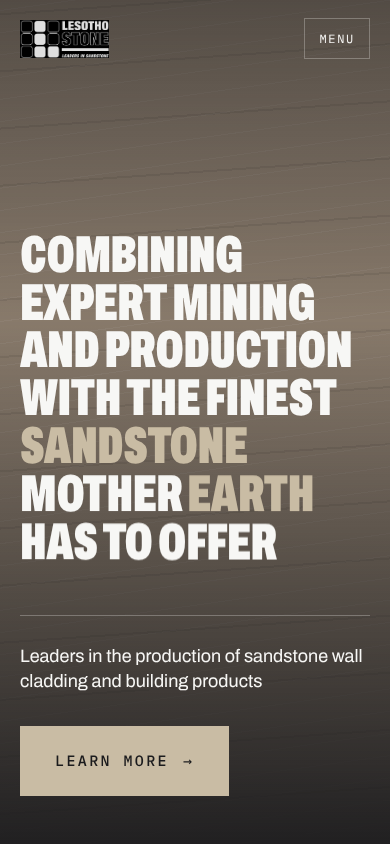
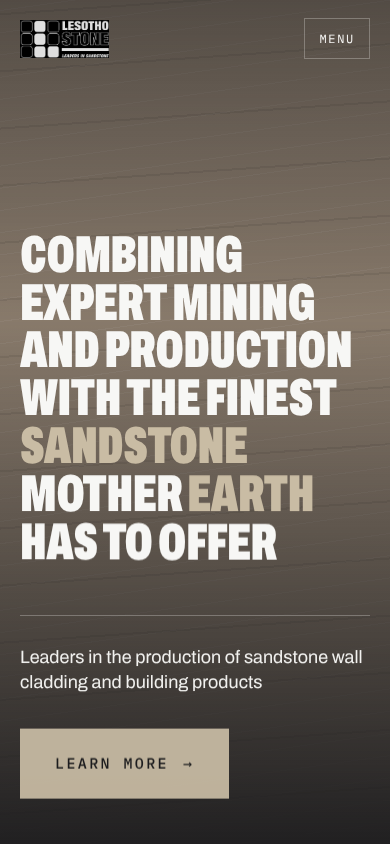
Document the machine-readable layer in the update-website skill
Claude-Session: https://claude.ai/code/session_01NmJtkduYUUvuAJqLhn7MqX

Changed region(s): [[0.0615, 0.7701, 0.9231, 0.8318], [0.0615, 0.8934, 0.5846, 0.955]]

diff --git a/.claude/skills/update-website/SKILL.md b/.claude/skills/update-website/SKILL.md
@@ -40,6 +40,11 @@ public/                    ← GENERATED. Never edit by hand; it is wiped on eve
 
 **Add a page** — add a `page(route, navKey, title, description, (b) => html)` call in `build.mjs`, add its route to `R`, and (if it belongs in the menu) to the `items` list in `header()`. Build markup from the existing partials (`hero`, `reveal`, `eyebrow`, `button`, `frame`, `parallax`, `contactList`, `field`) and existing CSS classes before writing new CSS.
 
+**Machine-readable layer (search engines, AI answers, agents)** — generated automatically from `content/site.json` on every build, so keep the content file accurate:
+- schema.org JSON-LD in every page (`ORG`, `productLd()`, `jsonLd()` in `build.mjs`): Organization on all pages, Product with specs on product pages, ItemList on range pages, BreadcrumbList wherever there's a breadcrumb. Validate changes at https://validator.schema.org/.
+- `public/llms.txt`: a plain-language site map for AI tools. `public/data/products.json`: the full catalogue with specs, the starting point for any future agent/MCP/NLWeb integration.
+- Never move page content into JavaScript-only rendering: AI crawlers read the raw HTML and do not run scripts.
+
 **Change colours / fonts / spacing** — edit tokens in `src/assets/css/tokens/`, not hard-coded values in components. Fonts are Archivo (variable width) + IBM Plex Mono, loaded from Google Fonts in `layout()`.
 
 **Forms** — the site is static, so "Become a Distributor" and "Leave a message" open the visitor's email app with the filled-in fields, addressed to `site.formEmail`. To use a form service instead (Formspree, Netlify Forms, a PHP mailer…), set the `<form action>` in `distributorForm()` / the contact page and remove the `data-mailto` attribute.
